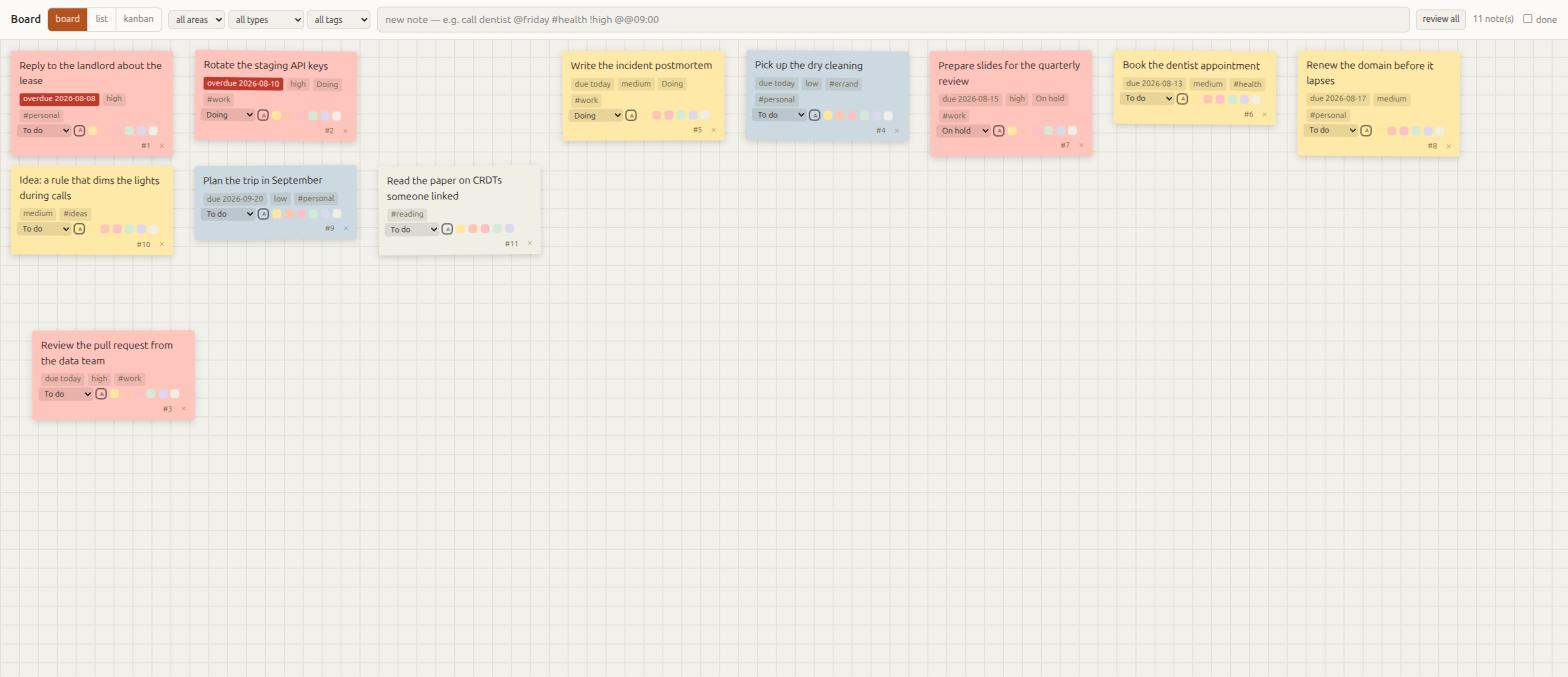
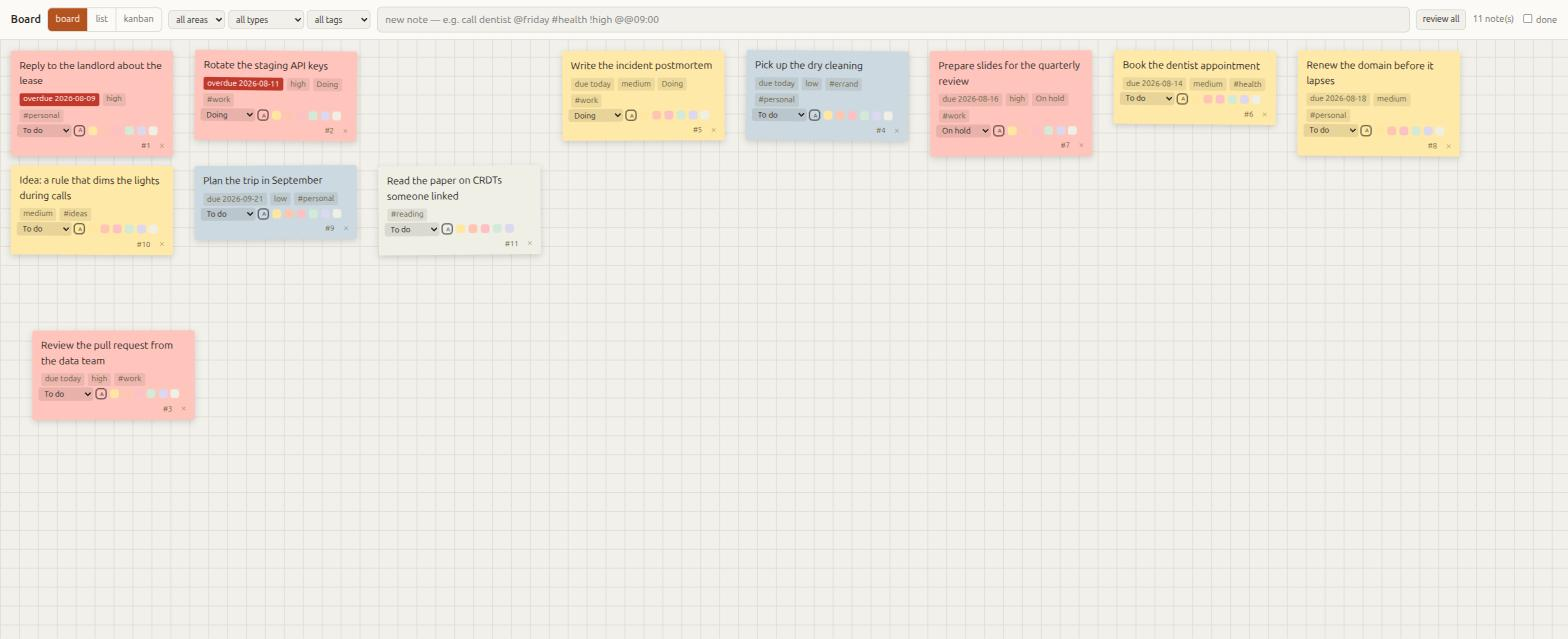
As três visões do mural, capturadas do mesmo dia e da mesma largura
Faltava a da visão lista: o `save_to_disk` do Chrome estourava o timeout de 30s
nela, e só nela — é a página mais alta das três. Numa janela mais estreita passou
de primeira, então era tamanho de render e não bug.

Aproveitei para regerar as outras duas junto. As três agora vêm do mesmo `make
demo`, do mesmo dia e na mesma largura, o que importa porque a demo semeia prazos
relativos a hoje: capturas de dias diferentes mostrariam a mesma nota em faixas
diferentes, e alguém leria isso como inconsistência da interface.

A da lista entra em `docs/notes.md`, na seção de ordem — é onde ela explica algo
que o texto sozinho não explica. As divisórias SÃO a ordenação ficando visível, e
a legenda aponta o caso concreto: "Pick up the dry cleaning" é `!low` e está acima
de três `!medium`, porque vence hoje e elas não.

Claude-Session: https://claude.ai/code/session_01JBATXxxHLeGTiwLxCJiKTR

diff --git a/docs/notes.md b/docs/notes.md
@@ -90,8 +90,12 @@ Every task falls into a band counted from today:
 | `week` | the next 7 days — a rolling window, not the calendar week | **next 7 days** |
 | `later` | beyond that, **and everything with no deadline** | **later and undated** |
 
+![The list view, with a divider per band](img/list.jpg)
+
 So a `!low` due today sits above a `!high` due in three days. The one due today
-is the one that has to be done today.
+is the one that has to be done today. In the picture above, "Pick up the dry
+cleaning" is `!low` and sits above three `!medium` tasks — because it is due
+today and they are not.
 
 Two consequences worth knowing:
 
